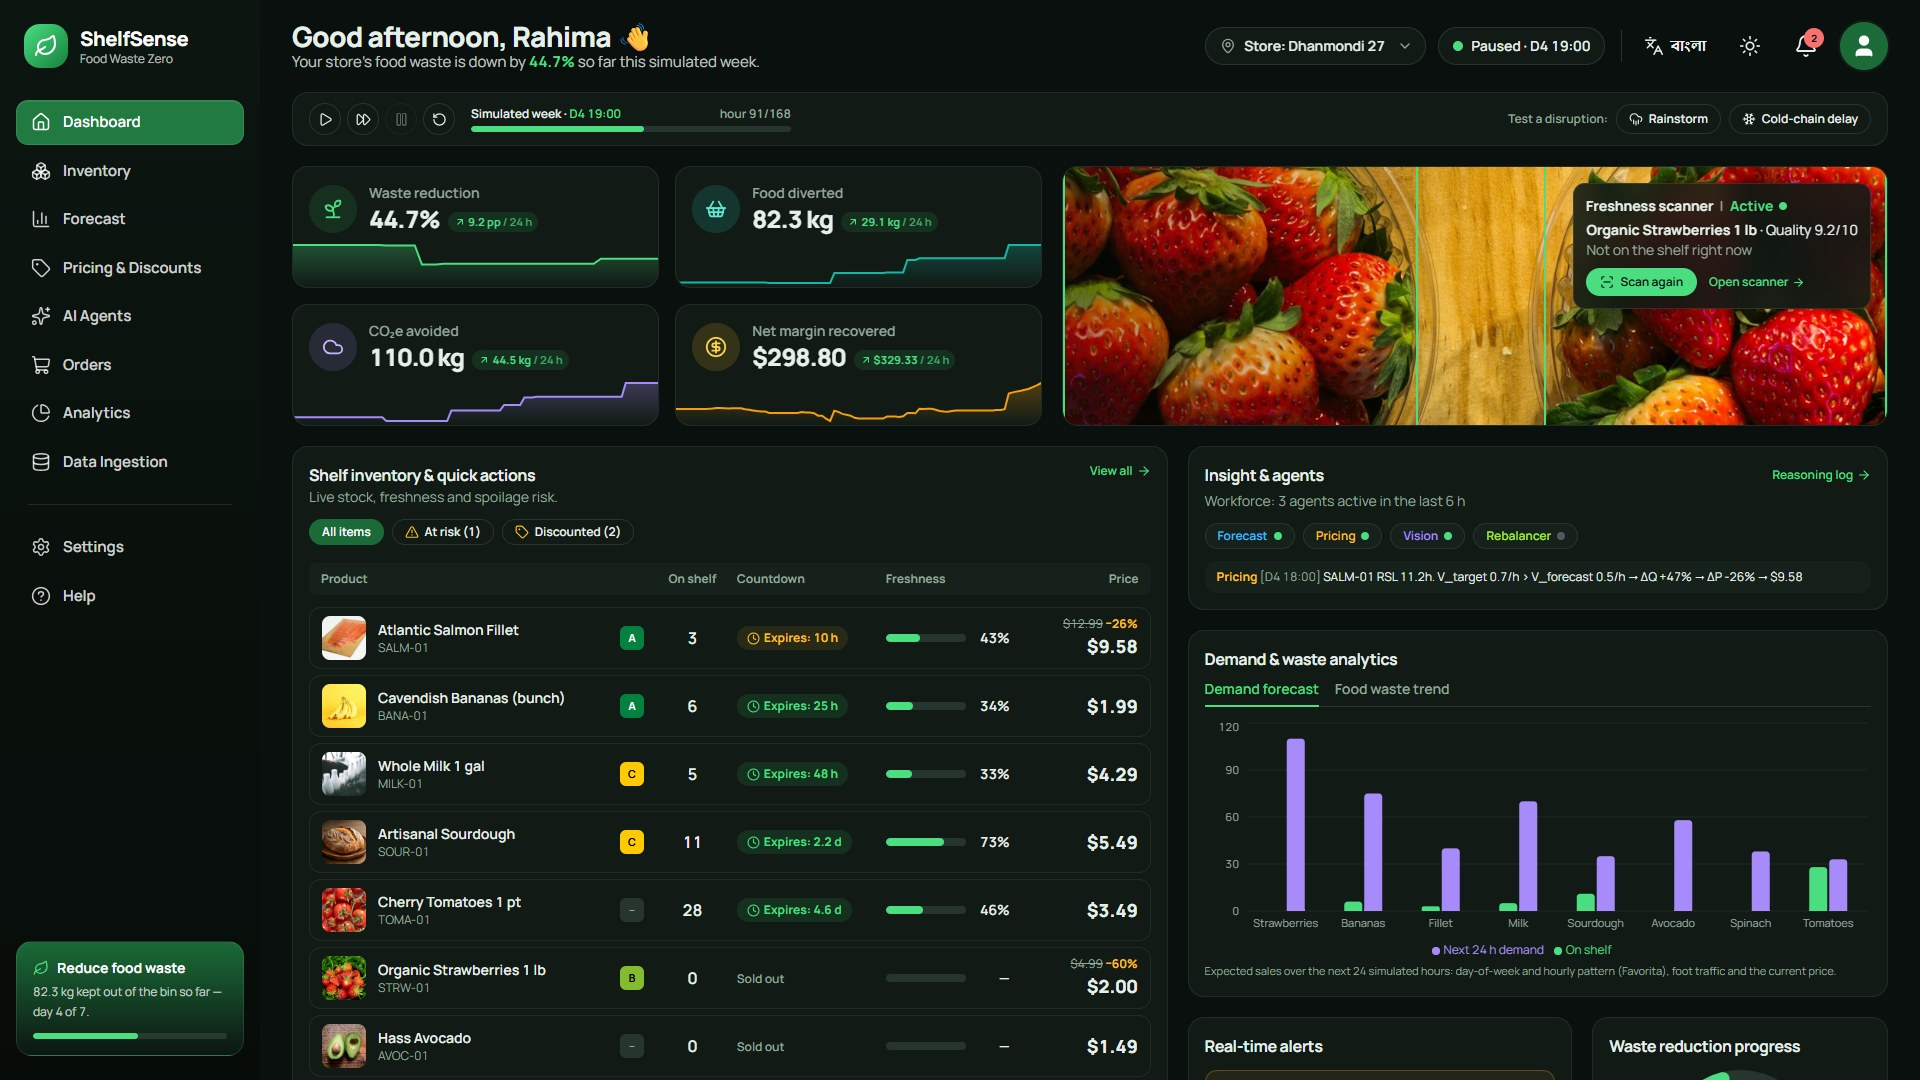
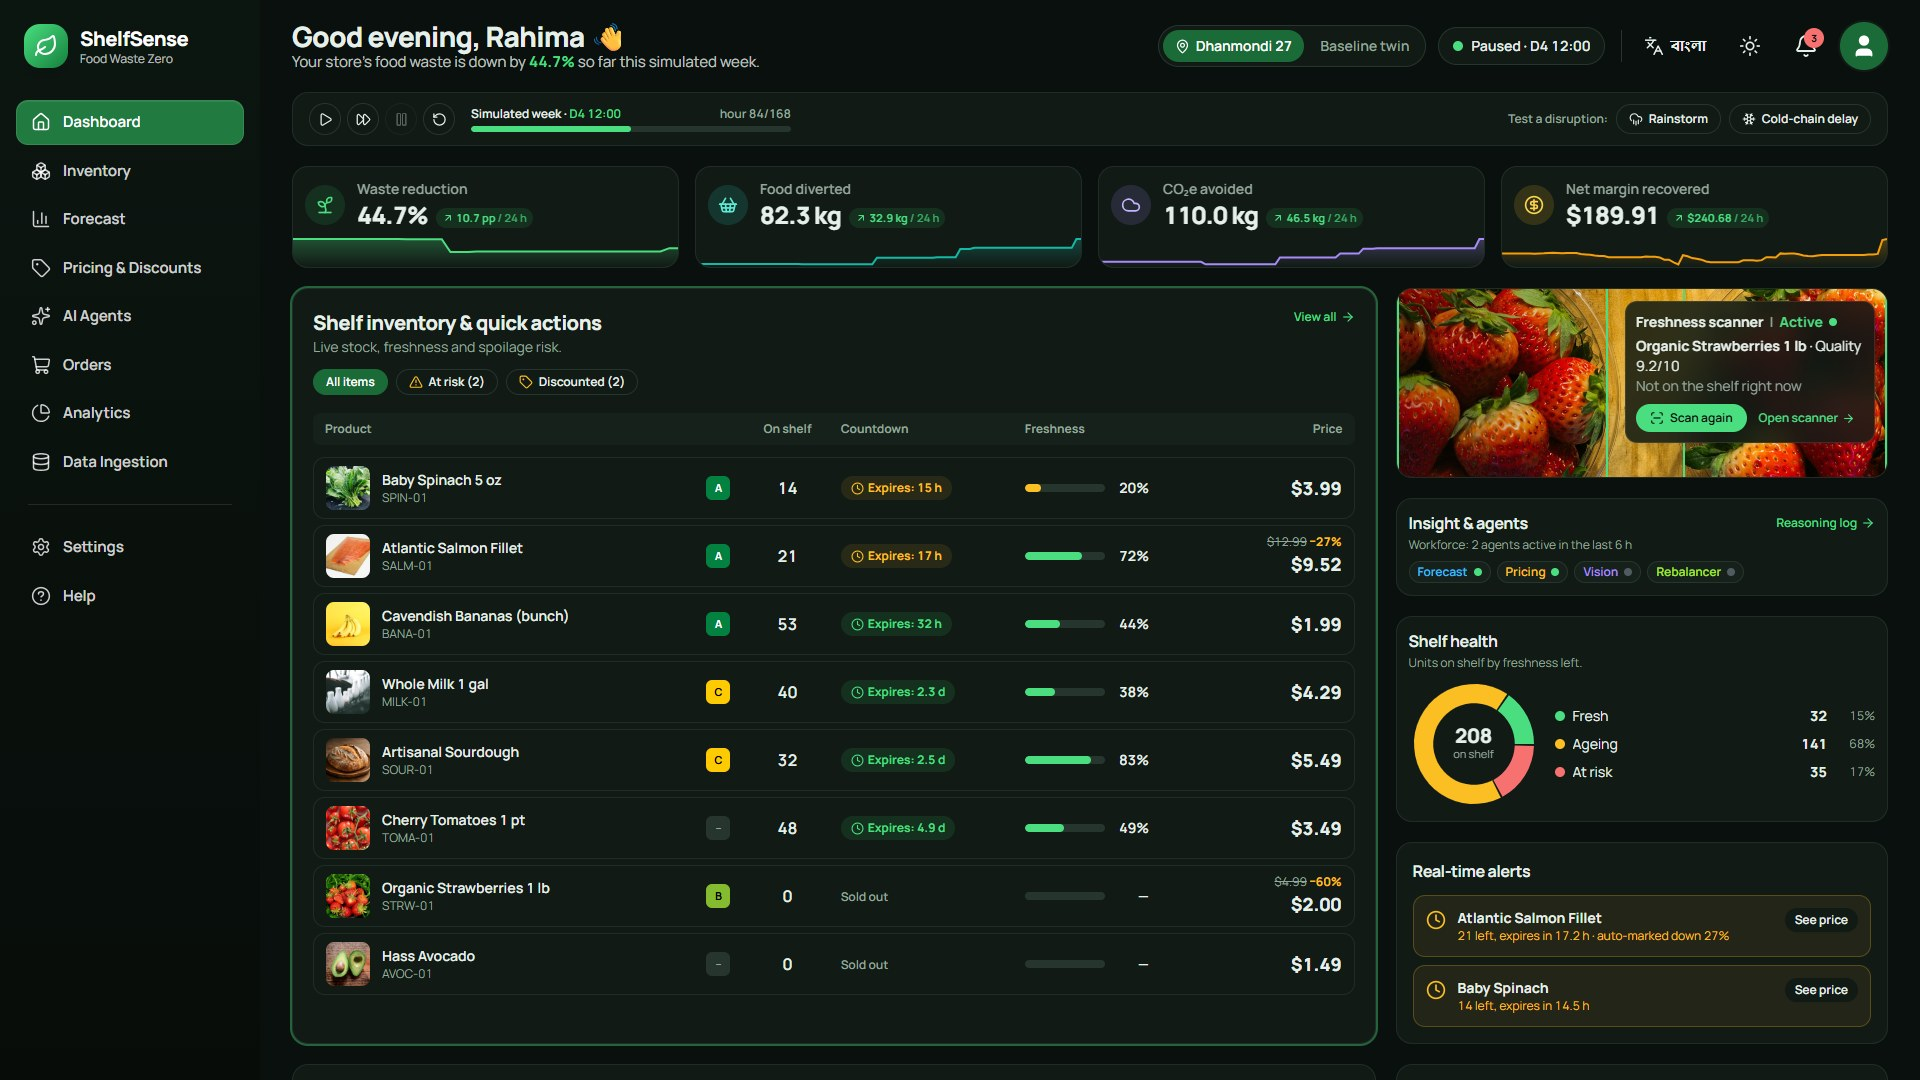
docs: BuildFest README and fresh screenshots/GIF
README now leads with the problem, what ShelfSense does, the results
table and a feature tour (dashboard, pages, checkable AI, accounts,
Bengali, phone, offline), then the demo walkthrough and setup. Test
count updated to 92; demo KPIs re-verified with the headless CLI.
Desktop, Bengali, phone stills and the demo GIF re-shot on the new
dashboard layout.

Claude-Session: https://claude.ai/code/session_01LuUBonF3w8y3BaZyWeGKPx

diff --git a/README.md b/README.md
@@ -1,13 +1,105 @@
 # ShelfSense
 
-A twin-store grocery simulation that shows how much perishable food a store throws away when it
-prices and orders by the printed date, and how much less it wastes when it prices and orders by
-what is actually happening on the shelf. Built in the FoodSphere AI domain (food-waste reduction
-in retail).
+**AI shelf intelligence that cuts perishable food waste in grocery stores.**
+Built for the FoodSphere AI domain (food-waste reduction in retail).
 
-**Live demo:** https://shelfsense-tau.vercel.app (API: https://shelfsense-api-66nh.onrender.com — free tier, the first load may take up to a minute while the server wakes).
+[![CI](https://github.com/jasondhaki/shelfsense/actions/workflows/ci.yml/badge.svg)](.github/workflows/ci.yml)
 
-![ShelfSense dashboard in the dark theme for a store manager on Day 4: KPIs with 24-hour change and sparklines, freshness scanner, shelf inventory with photos and countdowns, agents, demand forecast](docs/screenshot.jpg)
+**Live demo:** https://shelfsense-tau.vercel.app — no sign-up needed, choose *Continue as guest*.
+(The API runs on a free tier; the first load can take up to a minute while the server wakes.)
+
+![ShelfSense dashboard on Day 4 of the demo week in the dark theme: four KPI cards; the shelf inventory table with photos, expiry countdowns, freshness and live prices as the main panel; freshness scanner, agents, shelf-health donut and real-time alerts beside it; demand chart and waste-reduction gauge below](docs/screenshot.jpg)
+
+## The problem
+
+Grocery stores price and reorder fresh food by the date printed on the label. But a bruised punnet
+of strawberries spoils long before its date, a rainy day empties the shop, and a flat "50% off on
+the last day" comes too late. The result is food in the bin and margin lost.
+
+## What ShelfSense does
+
+ShelfSense watches what is actually happening on the shelf and acts on it every hour:
+
+- **Sees spoilage early.** A vision agent grades shelf photos (bruising, mould, ripening) and
+  shortens the remaining shelf life of the damaged batch.
+- **Forecasts demand.** Weather, weekday pattern, foot traffic and current price feed an hourly
+  forecast for every product.
+- **Prices dynamically.** Electronic shelf labels mark items down just enough to sell them before
+  they spoil, with a price floor, and every price comes with its formula.
+- **Orders smarter.** Purchase orders are throttled when shelves are already full or the weather
+  turns.
+- **Rescues the rest.** Short-dated leftovers become discounted *Flash Surplus Mystery Boxes*
+  (keeping ethylene producers away from sensitive produce).
+
+To prove it, ShelfSense runs a **twin-store simulation**: two stores serve the *same shoppers*
+through the *same weather* for a 7-day, 168-hour week. One runs on printed dates, the other on
+ShelfSense, and the dashboard shows the difference live.
+
+| | Store A — baseline | Store B — ShelfSense |
+|---|---|---|
+| Ordering | Fixed order-up-to level | Weather- and weekday-adjusted forecast, throttled orders |
+| Shelf life | Printed date | Effective-age model; camera scans recalibrate damaged batches |
+| Pricing | 50% off on the last printed day | Elasticity-based markdown sized to the sales gap, with a price floor |
+| Leftovers | Binned | Flash Surplus Mystery Boxes, ethylene-aware |
+
+## Results
+
+| Run | Waste reduction | Food diverted | CO₂e avoided | Margin recovered |
+|---|---|---|---|---|
+| Demo script (seed 42: rainstorm, cold-chain delay, damaged-strawberry scan) | **50.0%** | 106.6 kg | 150.7 kg | $769.71 |
+| Benchmark (seeds 1–20, no events) | **57.8% ± 8.5** | | | |
+
+The target was ≥ 30%. Parameters are never tuned per seed. Read *Limitations* before quoting
+these numbers.
+
+## Features
+
+**Command-center dashboard**
+- The **shelf inventory** is the main panel: every product with its photo, units on shelf, expiry
+  countdown, freshness bar, Nutri-Score and live price, with *All / At risk / Discounted* filters.
+  Click a product to open its step-by-step price formula.
+- KPI cards (waste reduction, food diverted, CO₂e avoided, margin recovered) with 24-hour change
+  and sparklines.
+- **Freshness scanner**: scan the shelf and watch detections appear on the photo.
+- **Shelf health** donut (fresh / ageing / at risk units), **real-time alerts**, agent activity,
+  a demand-vs-stock chart and food-waste trend, and a waste-reduction gauge against the 30% target.
+- A week player with play, fast-forward and restart, plus disruption buttons (*Rainstorm*,
+  *Cold-chain delay*) to test how the system reacts.
+- Switch every shelf view between your store and its **baseline twin** with one click.
+
+**Pages**
+- **Inventory**: every product, with filters and *Export CSV*.
+- **Forecast**: expected sales for the next 24 hours per product.
+- **Pricing & Discounts**: shelf-label prices and the markdown formula behind each one.
+- **AI Agents**: the five agents, the shelf scanner (preset frames or your own photo) and the
+  reasoning log, where every line can be explained in plain words.
+- **Orders**: today's purchase orders vs the baseline's fixed reorder.
+- **Analytics**: the full twin-store comparison, with *Export CSV*.
+- **Data Ingestion**: every data source and its offline fallback.
+- **Settings** and **Help**.
+
+**AI you can check**
+- Five agents (vision, knowledge/RAG, demand, pricing, procurement) share one message bus, and
+  each logs *why* it acted, with numbers.
+- **The language model never sets a price, shelf life or order.** Those are plain arithmetic from
+  [`docs/SIMULATION_ENGINE.md`](docs/SIMULATION_ENGINE.md). The model only reads photos and
+  writes explanations.
+- **Explain in plain words**: answers are grounded in the log line's numbers, knowledge-graph
+  facts and cited sources. An answer that contains a number not found in them is rejected and
+  template text is shown instead.
+- Retrieval: contextual chunks, BM25 or Gemini embeddings, plus a small knowledge graph for
+  ethylene clashes (graph RAG).
+- Assumed values (such as price elasticities) are labelled as assumptions in the formula
+  inspector.
+
+**Built for real use**
+- Accounts with email confirmation (6-digit code), or continue as a guest. Each account keeps its
+  own store and its simulated week between visits.
+- **English and Bengali (বাংলা)** interface, light and dark themes (follows the OS until you pick
+  one).
+- Phone layout with a hamburger menu, bottom tabs and collapsible dashboard sections.
+- **Runs fully offline**: no API keys, no internet. Every external call has a fallback (weather →
+  recorded snapshot, Gemini vision → cached results, embeddings → BM25).
 
 <details><summary>The same dashboard in Bengali</summary>
 
@@ -15,38 +107,46 @@ in retail).
 
 </details>
 
-Sign in, create an account (confirmed with a 6-digit code by email), or continue as a guest; each account has its own store name and a simulated week that is saved between visits.
+<details><summary>Demo week in motion (GIF)</summary>
 
-<img src="docs/signin.jpg" alt="Sign-in screen in the dark theme: create an account or continue as a guest" width="420"> <img src="docs/signin-bn.jpg" alt="The same sign-in screen in Bengali" width="420">
-
-On a phone the sidebar becomes a hamburger menu and a bottom tab bar, and the dashboard's inventory, agent and analytics panels fold away.
-
-<img src="docs/phone.jpg" alt="Phone dashboard in the dark theme on Day 4: app bar with menu, alerts and profile; week controls; KPI cards; freshness scanner; bottom tab bar" width="260"> <img src="docs/phone-menu.jpg" alt="The phone hamburger menu open, listing every page with language and theme buttons" width="260">
-
-The app is split into tabs: Dashboard, Inventory, Forecast, Pricing & Discounts, AI Agents, Orders,
-Analytics, Data Ingestion, Settings (profile name and store, saved in the browser) and Help. A sun/moon button switches
-between the light and dark themes (it follows the OS setting until you pick one). A language button switches the interface
-between English and Bengali (বাংলা).
-
-<details><summary>Demo week in motion (GIF, 1.2 MB)</summary>
-
-![In the light theme, from the login screen to a guest dashboard; the demo-script week fast-forwards through a rainstorm and a cold-chain delay and a strawberry price formula opens, then the page switches to the dark theme and to Bengali for the rest of the week and Analytics at 50% less waste](docs/demo.gif)
+![In the light theme, from the login screen to a guest dashboard; the demo-script week fast-forwards through a rainstorm and a cold-chain delay and a strawberry price formula opens, then the page switches to the dark theme and to Bengali for the rest of the week and ends on Analytics at 50% less waste](docs/demo.gif)
 
 </details>
 
-Two stores serve the **same shoppers** (common random numbers) through the **same weather** for a
-7-day, 168-hour week:
+Sign in, create an account, or continue as a guest:
 
-| | Store A — baseline | Store B — ShelfSense |
-|---|---|---|
-| Ordering | Fixed order-up-to level | Weather- and weekday-adjusted forecast, throttled POs |
-| Shelf life | Printed date | Effective-age model; camera scans recalibrate damaged batches |
-| Pricing | 50% off on the last printed day | Elasticity-based markdown sized to the velocity gap, with a price floor |
-| Leftovers | Binned | Flash Surplus Mystery Boxes, ethylene-aware |
+<img src="docs/signin.jpg" alt="Sign-in screen in the dark theme: create an account or continue as a guest" width="420"> <img src="docs/signin-bn.jpg" alt="The same sign-in screen in Bengali" width="420">
 
-**Result (no events, seeds 1–20): 57.8% ± 8.5 less waste.** Demo script (seed 42, rain + cold-chain
-delay + a damaged-strawberry scan): **50.0% less waste, 106.6 kg diverted, 150.7 kg CO₂e avoided,
-$769.71 margin recovered.** See *Limitations* before quoting these.
+On a phone:
+
+<img src="docs/phone.jpg" alt="Phone dashboard in the dark theme on Day 4: app bar with menu, alerts and profile; store toggle; week controls; KPI cards; the shelf inventory opening below; bottom tab bar" width="260"> <img src="docs/phone-menu.jpg" alt="The phone hamburger menu open, listing every page with language and theme buttons" width="260">
+
+## How to demo it (about 3 minutes)
+
+0. **Continue as a guest** (or sign in). Guests get a fresh week per tab.
+1. **Restart → Demo script.** Two identical stores, same shoppers, same weather.
+2. **Play.** Store B's shelf labels mark down short-life items; the reasoning log explains each
+   price with numbers.
+3. Day 2 10:00: a **rainstorm**. Demand, pricing and purchase-order lines appear; open *Orders*.
+4. Day 4 14:00: a **scan of damaged strawberries**. Shelf life drops and the label reprices the
+   next hour. Click the product for its price formula.
+5. **Fast-forward.** Surplus boxes appear, and the shelf-health donut and alerts update.
+6. Day 7 23:00: final KPIs. Open **Analytics** for the full comparison, and **System
+   architecture** for the live status of every part.
+
+## How it works
+
+- `backend/app/sim/` — a pure, deterministic engine with no I/O: the same seed and events always
+  give identical output. The maths is specified in
+  [`docs/SIMULATION_ENGINE.md`](docs/SIMULATION_ENGINE.md).
+- Agents are thin wrappers around the engine that log their reasoning; an orchestrator runs them
+  each simulated hour.
+- FastAPI streams one tick per simulated hour over `/ws/sim`; React + Zustand render the UI.
+- Stack: Python 3.12, FastAPI, NumPy · React 18, TypeScript, Vite, Tailwind, Recharts · Google
+  Gemini (optional) or a local model via Ollama / llama.cpp. Free tiers only.
+
+Full design: [`docs/ARCHITECTURE.md`](docs/ARCHITECTURE.md) (with a decisions log). AI details:
+[`docs/AI_PIPELINE.md`](docs/AI_PIPELINE.md). Prompts: [`docs/PROMPT_LIBRARY.md`](docs/PROMPT_LIBRARY.md).
 
 ## Run it locally
 
@@ -65,14 +165,13 @@ npm run dev
 ```
 
 Weather: `WEATHER_PROVIDER=open_meteo` shows Dhaka weather (no key); `uv run python -m scripts.snapshot_open_meteo`
-rebuilds the simulation's weather snapshot for that location. The store picker in the header switches
-the shelf views between ShelfSense and its baseline twin, and *Export CSV* (Inventory, Analytics)
-downloads the current run. Product photos are Unsplash (credits in `frontend/public/products/CREDITS.md`).
+rebuilds the simulation's weather snapshot for that location. Product photos are Unsplash
+(credits in `frontend/public/products/CREDITS.md`).
 
 Headless run: `cd backend && uv run python -m app.sim.cli --hours 168 --seed 42 --scenario demo`
 (`--seeds 1-20` for the benchmark, `--seeds 1-20 --calibrate` for Store A vs FAO waste rates).
 
-Tests and checks: `uv run pytest -q` (90 tests) · `npm run typecheck && npm run lint && npm run build`.
+Tests and checks: `uv run pytest -q` (92 tests) · `npm run typecheck && npm run lint && npm run build`.
 
 ### Optional: live AI
 
@@ -83,13 +182,11 @@ app uses cached scan results and BM25 keyword search, and says so in the UI.
 
 ### Optional: plain-language explanations (Gemini or a local model)
 
-Expand any agent log line and press **Explain in plain words**. The answer is grounded on the
-line's numbers, knowledge-graph facts and cited sources, and is rejected (template text shown
-instead) if it contains a number that isn't in them. `LLM_PROVIDER=gemini` uses your Gemini key;
-for a fully local model install [Ollama](https://ollama.com), `ollama pull qwen2.5:3b`, then set
-`LLM_PROVIDER=ollama` and `OLLAMA_MODEL=qwen2.5:3b`. Any OpenAI-compatible local server works too
-(llama.cpp's `llama-server`, LM Studio): `LLM_PROVIDER=openai_compat`, `OPENAI_COMPAT_URL`,
-`OPENAI_COMPAT_MODEL`. Without any of these it shows template text.
+Expand any agent log line and press **Explain in plain words**. `LLM_PROVIDER=gemini` uses your
+Gemini key; for a fully local model install [Ollama](https://ollama.com), `ollama pull qwen2.5:3b`,
+then set `LLM_PROVIDER=ollama` and `OLLAMA_MODEL=qwen2.5:3b`. Any OpenAI-compatible local server
+works too (llama.cpp's `llama-server`, LM Studio): `LLM_PROVIDER=openai_compat`,
+`OPENAI_COMPAT_URL`, `OPENAI_COMPAT_MODEL`. Without any of these it shows template text.
 
 ### MCP servers, automation, analytics
 
@@ -122,35 +219,6 @@ Run backend and frontend as above, then expose the Vite port with a free tunnel:
 `cloudflared tunnel --url http://localhost:5173` (or `ngrok http 5173`). The Vite proxy forwards
 `/api` and `/ws`, so one tunnel serves the whole app; Vite already allows `*.trycloudflare.com`
 and `*.ngrok-free.app` hosts.
-
-## How to demo it (about 3 minutes)
-
-0. **Sign in, create an account, or continue as a guest.** Each account gets its own store name and
-   its own simulated week, saved to the database (pick it up in another tab, device or after a
-   redeploy); guests get a fresh week per tab. New accounts confirm their email with a 6-digit code.
-1. **Reset → Demo script.** Two identical stores, same shoppers, same weather.
-2. **Play.** Store B's shelf labels mark down short-life items; the log explains each price with numbers.
-3. The script adds a **rainstorm** (Day 2 10:00): demand, pricing and purchase-order lines appear; open *Purchase orders*.
-4. Day 4 14:00: a **Frame 3 scan** of damaged strawberries; shelf life drops and the label reprices next hour. Click a label for the step-by-step formula.
-5. **Fast-forward.** Surplus boxes appear in *Flash surplus boxes*.
-6. Day 7 23:00: final KPIs. Open **System architecture** for the live status of every part.
-
-## How it works
-
-- `backend/app/sim/` — a pure, deterministic engine (no I/O): same seed + same events ⇒ identical
-  output. The maths is specified in [`docs/SIMULATION_ENGINE.md`](docs/SIMULATION_ENGINE.md).
-- Agents (demand, pricing, procurement, vision, RAG) are thin wrappers that log *why*. The vision
-  model only extracts what it sees and retrieved text only explains decisions; no LLM ever sets a
-  price, shelf life or order.
-- FastAPI streams a tick per simulated hour over `/ws/sim`; React + Zustand render five zones.
-- Every external dependency has an offline fallback (NOAA → snapshot, Gemini → cached fixtures,
-  embeddings → BM25).
-
-- Retrieval: semantic chunks with LLM-written context sentences (contextual retrieval), BM25 or
-  Gemini embeddings, plus a small knowledge graph for ethylene clashes (graph RAG).
-
-Full design: [`docs/ARCHITECTURE.md`](docs/ARCHITECTURE.md) (with a decisions log). AI details:
-[`docs/AI_PIPELINE.md`](docs/AI_PIPELINE.md). Prompts: [`docs/PROMPT_LIBRARY.md`](docs/PROMPT_LIBRARY.md).
 
 ## Data and credits
 
